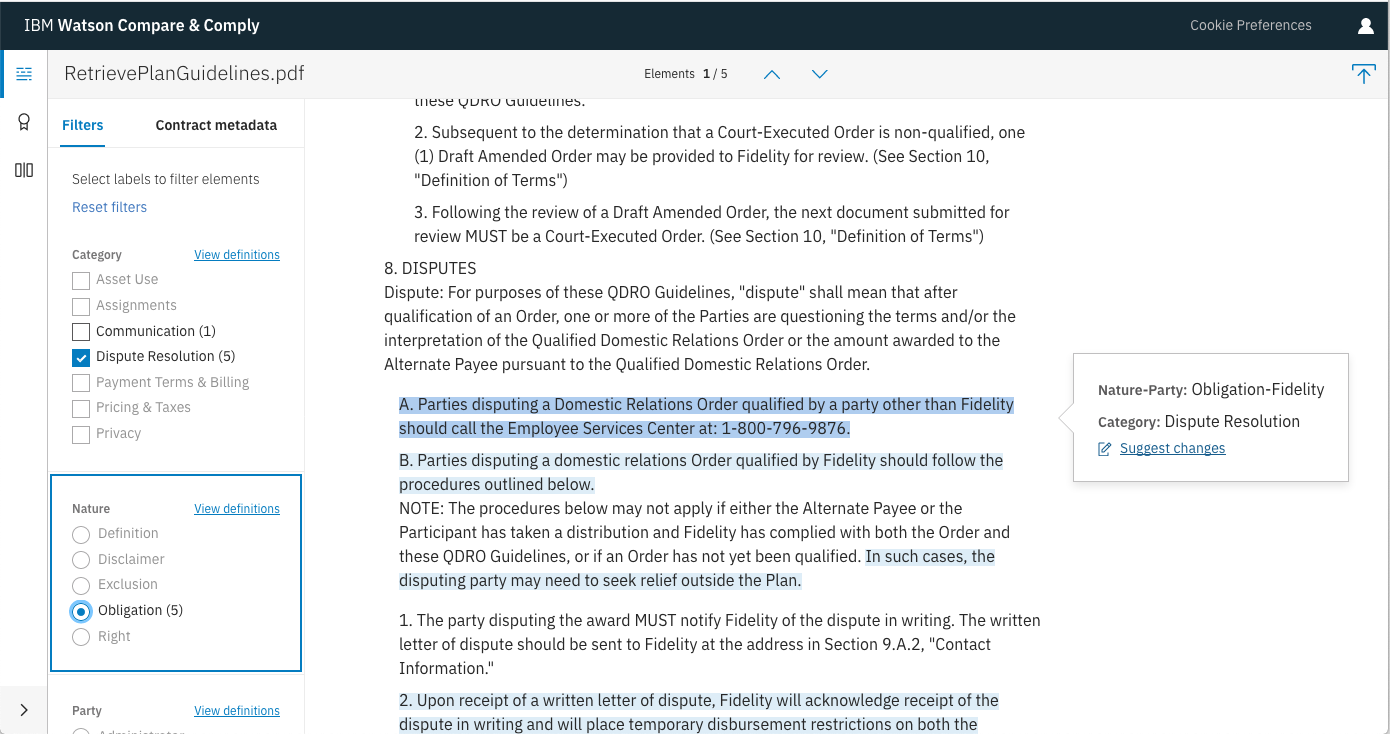
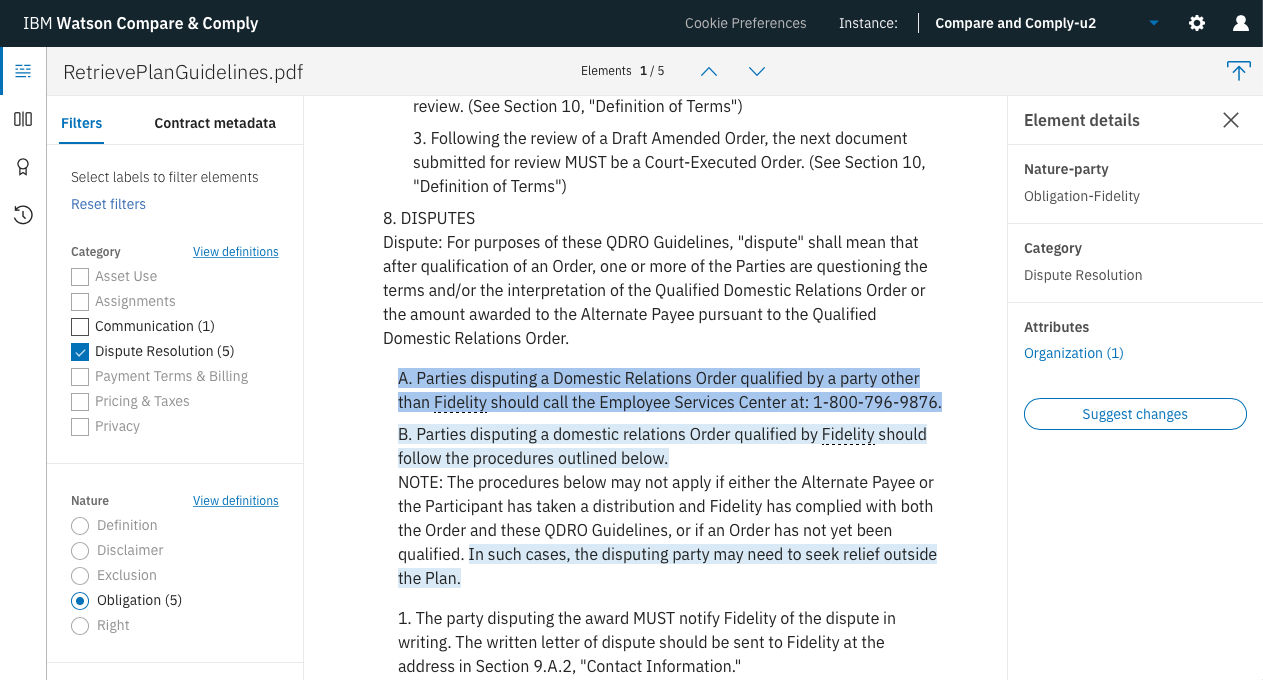
CnC: 4/23 updates

diff --git a/tooling.md b/tooling.md
@@ -2,7 +2,7 @@
 
 copyright:
 years: 2018, 2019
-lastupdated: "2019-03-29"
+lastupdated: "2019-04-23"
 
 subcollection: compare-comply
 
@@ -25,7 +25,7 @@ subcollection: compare-comply
 # Using the Compare and Comply Tooling
 {: #using_tool}
 
-The service provides Compare and Comply Tooling to enable you to work with governing documents in a GUI environment. This short tutorial introduces the Tooling and takes you through the process of uploading and processing documents, then working with the results.
+The Compare and Comply Tooling enables you to work with governing documents in a GUI environment. This tutorial introduces the Tooling and takes you through the process of uploading and processing documents, then working with the results.
 {: shortdesc}
 
 ## Tooling capabilities
@@ -33,7 +33,7 @@ The service provides Compare and Comply Tooling to enable you to work with gover
 
 The Compare and Comply Tooling provides the following capabilities:
 
-  - **Document visualizer**: Enables you to use the **Element Classification** feature in a visual environment. It also provides the ability to provide suggestions to update and improve the training models.
+  - **Analyze**: Enables you to use the **Element Classification** feature in a visual environment. It also provides the ability to provide suggestions to update and improve the training models.
 
   - **Recommendations**: Enables you to customize your service instance based on labeling recommendations that are based on suggestions that your users entered by using either the Tooling or the [**Feedback** APIs](/docs/services/compare-comply?topic=compare-comply-feedback).
 
@@ -101,7 +101,7 @@ The Compare and Comply Tooling for Element Classification displays four panes. T
   
   ![Compare and Comply Tooling with category and nature selections](images/tooling-cat-nature.png)
  
-1. Click a highlighted element to display all labels that are applied to the element. A pop-up window is displayed next to the highlighted element; you can optionally suggest different classifications for the labels and elements, as described in [Adding suggestions](#add-suggestions).
+1. Click a highlighted element to display all labels that are applied to the element. You can optionally suggest different classifications for the labels and elements, as described in [Adding suggestions](#add-suggestions).
    ![Compare and Comply Tooling displaying element-specific information](images/tool-highlight.png)
 
 1. Use the up and down arrows to the right of the document to cycle through elements that match the specified labels.
@@ -118,15 +118,16 @@ See [Understanding element classification](/docs/services/compare-comply?topic=c
 
 You can display contract metadata by clicking the **Contract metadata** tab in the middle pane. Contract metadata can include any of the following items:
 
-  - **Parties**, including name and postal address.
+  - **Parties**, including names and postal addresses.
   - **Effective dates** that are identified in the document.
   - **Contract amounts** (monetary amounts) that are identified in the document.
   - **Termination dates** that are identified in the document.
   - The **contract types** of the document.
+  - The **contract terms** of the document.
   
-The Tooling displays a right-pointing arrow next to identified metadata items. Click an arrow to go to the corresponding element in the document. The Tooling highlights the element in orange.
+The Tooling displays a list of linked identified metadata items. Click a link to go to the corresponding element in the document. The Tooling highlights the element in orange.
   
-Compare and Comply assigns confidence levels to identified **Effective dates**, **Contract amounts**, **Termination dates**, and **Contract types** items by using the following scale:
+Compare and Comply assigns confidence levels to identified **Effective dates**, **Contract amounts**, **Termination dates**, **Contract types**, and **Contract terms** items by using the following scale:
   - Three green dots indicate a **high** level of confidence.
   - Two yellow dots indicate a **medium** level of confidence.
   - One red dot indicates a **low** level of confidence.
@@ -140,9 +141,9 @@ As noted in [Filtering elements by labels](#filter-elements), you can select any
 
 To provide suggestions in the Tooling, perform the following steps:
 
-1. Open the Tooling, open a document, and apply the labels that you want to examine. Select a highlighted passage to display the informational pop-up window.
+1. Open the Tooling, open a document, and apply the labels that you want to examine. Select a highlighted passage to display information about it in the right pane.
 
-1. If you disagree with the information that is displayed in the pop-up window, click **Suggest changes**. The **Suggest changes** panel opens.
+1. If you disagree with the information that the Tooling displays, click **Suggest changes**. The **Suggest changes** panel opens.
    ![Compare and Comply Tooling: Suggestion panel](images/tool-suggestion-panel.png).
    
 1. The panel lists each labeled element in the highlighted passage. Perform one or more of the following actions:
@@ -158,6 +159,9 @@ To provide suggestions in the Tooling, perform the following steps:
 {: #view-suggestions}
 
 You can view the suggestions that have been made in the Tooling by clicking the **Suggestion history** icon (![Suggestion history icon](images/tool-suggestion-icon.png)). The **Suggestion history** page opens.
+
+  The **Suggestion history** feature is available only on `Premium` plans. See [https://cloud.ibm.com/account/settings ![External link icon](../../icons/launch-glyph.svg "External link icon")](https://cloud.ibm.com/account/settings){: new_window} for information about your plan.
+  {: important}
 
 ![Compare and Comply Tooling: Suggestion history](images/tool-suggestion-history.png)
 
@@ -218,12 +222,15 @@ The combined size of the two compared documents can be no larger than 3 MB.
 1. In the **Comparison document** panel, click  **Browse for document**. The Tooling opens a file browser. Select an [input file](/docs/services/compare-comply?topic=compare-comply-formats) as the base document for comparison and click **Open**. The panel displays the name of the file that you selected.
   ![Comparison tooling with two files selected](images/tooling-select-2-docs.png)
   
-1. Click **Compare**. The Tooling processes the documents and displays a side-by-side comparison of them.
+1. Click **Compare new**. The Tooling processes the documents and displays a side-by-side comparison of them.
   ![Comparison displaying two compared files](images/tooling-compared-docs.png)
   
 1. The Tooling lists the number of matched elements that it detected between the two documents and highlights the matched elements in blue. Use the up and down arrows to navigate through the matches.
 
-1. Optionally, click the **Display options** icon (![display options icon](images/tooling-eye-icon.png)) on the right side of the screen and select different display options.
+1. Optionally, click the **Toggle filter list** icon (![filter list icon](images/tool-compare-toggle-filter-list-icon.png)) on the left side of the screen and select different filters.
+  ![Comparison filter list](images/tool-compare-toggle-filter-list.png)
+
+1. Optionally, click the **Toggle display options** icon (![display options icon](images/tooling-eye-icon.png)) on the left side of the screen and select different display options.
   ![Comparison display options](images/tooling-display-options.png)
   
   For example, to display unaligned elements, select the **Unaligned elements** check box. The Tooling displays unaligned elements in yellow.

diff --git a/schema.md b/schema.md
@@ -2,7 +2,7 @@
 
 copyright:
 years: 2018, 2019
-lastupdated: "2019-04-04"
+lastupdated: "2019-04-11"
 
 subcollection: compare-comply
 
@@ -272,8 +272,8 @@ After a document is processed by the `/v1/element_classification` method, the se
     {
       "confidence_level": string,
       "text": string,
-      "location": { "begin": int, "end": int },
-      "provenance_ids": [ string, string, ... ]
+      "provenance_ids": [ string, string, ... ],
+      "location": { "begin": int, "end": int }
      },
      ...
   ],
@@ -281,8 +281,8 @@ After a document is processed by the `/v1/element_classification` method, the se
     {
       "confidence_level": string,
       "text": string,
-      "location": { "begin": int, "end": int },
-      "provenance_ids": [ string, string, ... ]
+      "provenance_ids": [ string, string, ... ],
+      "location": { "begin": int, "end": int }
     },
     ...
   ],
@@ -290,8 +290,8 @@ After a document is processed by the `/v1/element_classification` method, the se
     {
       "confidence_level": string,
       "text": string,
-      "location": { "begin": int, "end": int },
-      "provenance_ids": [ string, string, ... ]
+      "provenance_ids": [ string, string, ... ],
+      "location": { "begin": int, "end": int }
     },
     ...
   ],
@@ -299,8 +299,17 @@ After a document is processed by the `/v1/element_classification` method, the se
     {
       "confidence_level": string,
       "text": string,
-      "location": { "begin": int, "end": int },
-      "provenance_ids": [ string, string, ... ]
+      "provenance_ids": [ string, string, ... ],
+      "location": { "begin": int, "end": int }
+    },
+    ...
+  ],
+  "contract_terms": [
+    {
+      "confidence_level": string,
+      "text": string,
+      "provenance_ids": [ string, string, ... ],
+      "location": { "begin": int, "end": int }
     },
     ...
   ]
@@ -436,7 +445,12 @@ The schema is arranged as follows.
     - `confidence_level`: The confidence level of the identification of the contract type. Possible values include `High`, `Medium`, and `Low`.
     - `text`: A contract type, which is listed as a string.
     - `provenance_ids`: An array that contains zero or more keys. Each key is a hashed value that you can send to IBM to provide feedback or receive support.    
-    - `location`: The location of the contract as defined by its `begin` and `end` indexes.
+    - `location`: The location of the contract type as defined by its `begin` and `end` indexes.
+  - `contract_terms`: An array that identifies the duration or durations of the contract.
+    - `confidence_level`: The confidence level of the identification of the contract terms. Possible values include `High`, `Medium`, and `Low`.
+    -  `text`: A contract term, which is listed as a string.
+    - `provenance_ids`: An array that contains zero or more keys. Each key is a hashed value that you can send to IBM to provide feedback or receive support.
+    - `location`: The location of the contract term as defined by its `begin` and `end` indexes.
 
 **\*Notes on tables:**
   - Row and column index values per cell are zero-based and so begin with `0`.

diff --git a/parsing.md b/parsing.md
@@ -2,7 +2,7 @@
 
 copyright:
   years: 2017, 2019
-lastupdated: "2018-03-29"
+lastupdated: "2018-04-11"
 
 subcollection: compare-comply
 
@@ -129,6 +129,7 @@ The `effective_dates` array identifies the date or dates on which the document b
 |:----------------:|-----------------------------------------------------------|
 |`confidence_level`|The confidence level of the identification of the effective date. Possible values include `High`, `Medium`, and `Low`.|
 |`text`            |An effective date, listed as a string.                     |
+|`text_normalized` |The normalized text of the `text` if available, listed as a string. |
 |`location`        |The location of the date as defined by its `begin` and `end` indexes.|
 |`provenance_ids`  |An array of hashed values that you can send to IBM to provide feedback or receive support. |
 
@@ -153,6 +154,7 @@ The `termination_dates` array identifies the date or dates on which the document
 |:----------------:|-----------------------------------------------------------|
 |`confidence_level`|The confidence level of the identification of the termination date. Possible values include `High`, `Medium`, and `Low`.|
 |`text`            |The termination date, listed as a string.                  |
+|`text_normalized` |The normalized text of the `text` if available, listed as a string.|
 |`location`        |The location of the termination date as defined by its `begin` and `end` indexes.|
 |`provenance_ids`  |An array of hashed values that you can send to IBM to provide feedback or receive support. |
 
@@ -166,6 +168,18 @@ The `contract_types` array identifies the document's contract type or types as d
 |`confidence_level`|The confidence level of the identification of the contract type. Possible values include `High`, `Medium`, and `Low`.|
 |`text`            |The contract type, listed as a string.                  |
 |`location`        |The location of the contract type as defined by its `begin` and `end` indexes.|
+|`provenance_ids`  |An array of hashed values that you can send to IBM to provide feedback or receive support. |
+
+## Contract terms
+{: #contract-terms}
+
+The `contract_terms` array identifies the duration or durations of the contract as declared in the document.
+
+| `contract_terms`|Description                                               |
+|:----------------:|-----------------------------------------------------------|
+|`confidence_level`|The confidence level of the identification of the contract term. Possible values include `High`, `Medium`, and `Low`.|
+|`text`            |The contract term, listed as a string.                  |
+|`location`        |The location of the contract term as defined by its `begin` and `end` indexes.|
 |`provenance_ids`  |An array of hashed values that you can send to IBM to provide feedback or receive support. |
 
 ## Provenance

diff --git a/getting-started.md b/getting-started.md
@@ -2,7 +2,7 @@
 
 copyright:
   years: 2017, 2019
-lastupdated: "2018-03-14"
+lastupdated: "2018-04-11"
 
 subcollection: compare-comply
 
@@ -108,7 +108,7 @@ The method returns a JSON object that contains:
   - [A `tables` array](#tables) that breaks down the tables that are identified in the input document.
   - [A `document_structure` object](#doc_structure) that lists section titles and leading sentences that are identified in the input document.
   - [A `parties` array](#parties) that lists the parties, roles, addresses, and contacts of parties identified in the input document.
-  - [Arrays defining `effective_dates`, `contract_amounts`, `termination_dates`, and `contract_types`](#other_arrays).
+  - [Arrays defining `effective_dates`, `contract_amounts`, `termination_dates`,  `contract_types`, and `contract_terms`](#other_arrays).
 
 ## Step 3: Review the analysis
 {: #review_analysis}
@@ -231,12 +231,21 @@ The `parties` array lists available information about parties that are affected 
 ### Other arrays
 {: #other_arrays}
 
-The following arrays provide useful information about the input document. Each of the arrays contains zero or more objects that list the `text` in which the information was identified, the confidence level of the identification (`High`, `Medium`, or `Low`), the `location` of that text as defined by the text's `begin` and `end` indexes, and a list of `provenance_ids`, which are hashed values that you can send to IBM to provide feedback or receive support.
+The following arrays provide useful information about the input document. 
 
   - The `effective_dates` array lists the date or dates on which the document becomes effective.
   - The `contract_amounts` array lists monetary amounts that identify the total amount of the contract that needs to be paid from one party to another.
   - The `termination_dates` array lists the date or dates on which the document is to be terminated.
   - The `contract_types` array lists the contract type or types as specified in the document.
+  - The `contact_terms` array lists the contract duration or durations as specified in the document.
+  
+Each of the arrays contains zero or more objects that list the following items:
+
+  - The text in which the information was identified.
+  - The normalized text, if applicable. This element is currently listed only in the `effective_dates` and `termination_dates` arrays.
+  - The confidence level of the identification (`High`, `Medium`, or `Low`).
+  - The `location` of that text as defined by the text's `begin` and `end` indexes.
+  - A list of `provenance_ids`, which are hashed values that you can send to IBM to provide feedback or receive support.
 
 ## Next steps
 {: #next_steps}

diff --git a/relnotes.md b/relnotes.md
@@ -2,7 +2,7 @@
 
 copyright:
   years: 2017, 2019
-lastupdated: "2018-03-25"
+lastupdated: "2018-04-23"
 
 subcollection: compare-comply
 
@@ -47,14 +47,26 @@ The current version is `2018-10-15`.
 
 The following new features and changes to the service are available.
 
+### 23 April 2019
+{: #23-april-2019}
+
+The release includes updates to the Compare and Comply Tooling. For more information, see [Using the Compare and Comply Tooling](/docs/services/compare-comply?topic=compare-comply-using_tool).
+
+### 17 April 2019
+{: #17-april-2019}
+
 The release includes the following updates:
+
+  - Addition of the `contract_terms` array to the output of Element Classification. For more information, see [Contract terms](/docs/services/compare-comply?topic=compare-comply-contract_parsing#contract-terms) and [Classifying elements](/docs/services/compare-comply?topic=compare-comply-output_schema).
+  
+  - Addition of the `text_normalized` element to the `effective_dates` and `termination_dates` arrays. For more information, see [Other arrays](/docs/services/compare-comply?topic=compare-comply-getting_started#other_arrays), [Effective dates](/docs/services/compare-comply?topic=compare-comply-contract_parsing#effective_dates), and [Termination dates](/docs/services/compare-comply?topic=compare-comply-contract_parsing#termination_dates).
 
 ### 19 March 2019
 {: #19-march-2019}
 
 The release includes the following updates:
 
-  - Updates to the `attributes` values available in Element Classification. For more information, see [Attributes](/docs/services/compare-comply/?topic=compare-comply-contract_parsing#attributes). 
+  - Updates to the `attributes` values available in Element Classification. For more information, see [Attributes](/docs/services/compare-comply?topic=compare-comply-contract_parsing#attributes). 
 
     The `Address` attribute value has been deprecated.
     {: important}

diff --git a/pos.md b/pos.md
@@ -166,7 +166,7 @@ The command output uses the following schema.
                "begin": int,
                "end": int
             },
-            "text": strint
+            "text": string
          },
          "unit_price": {  
             "location": {  
